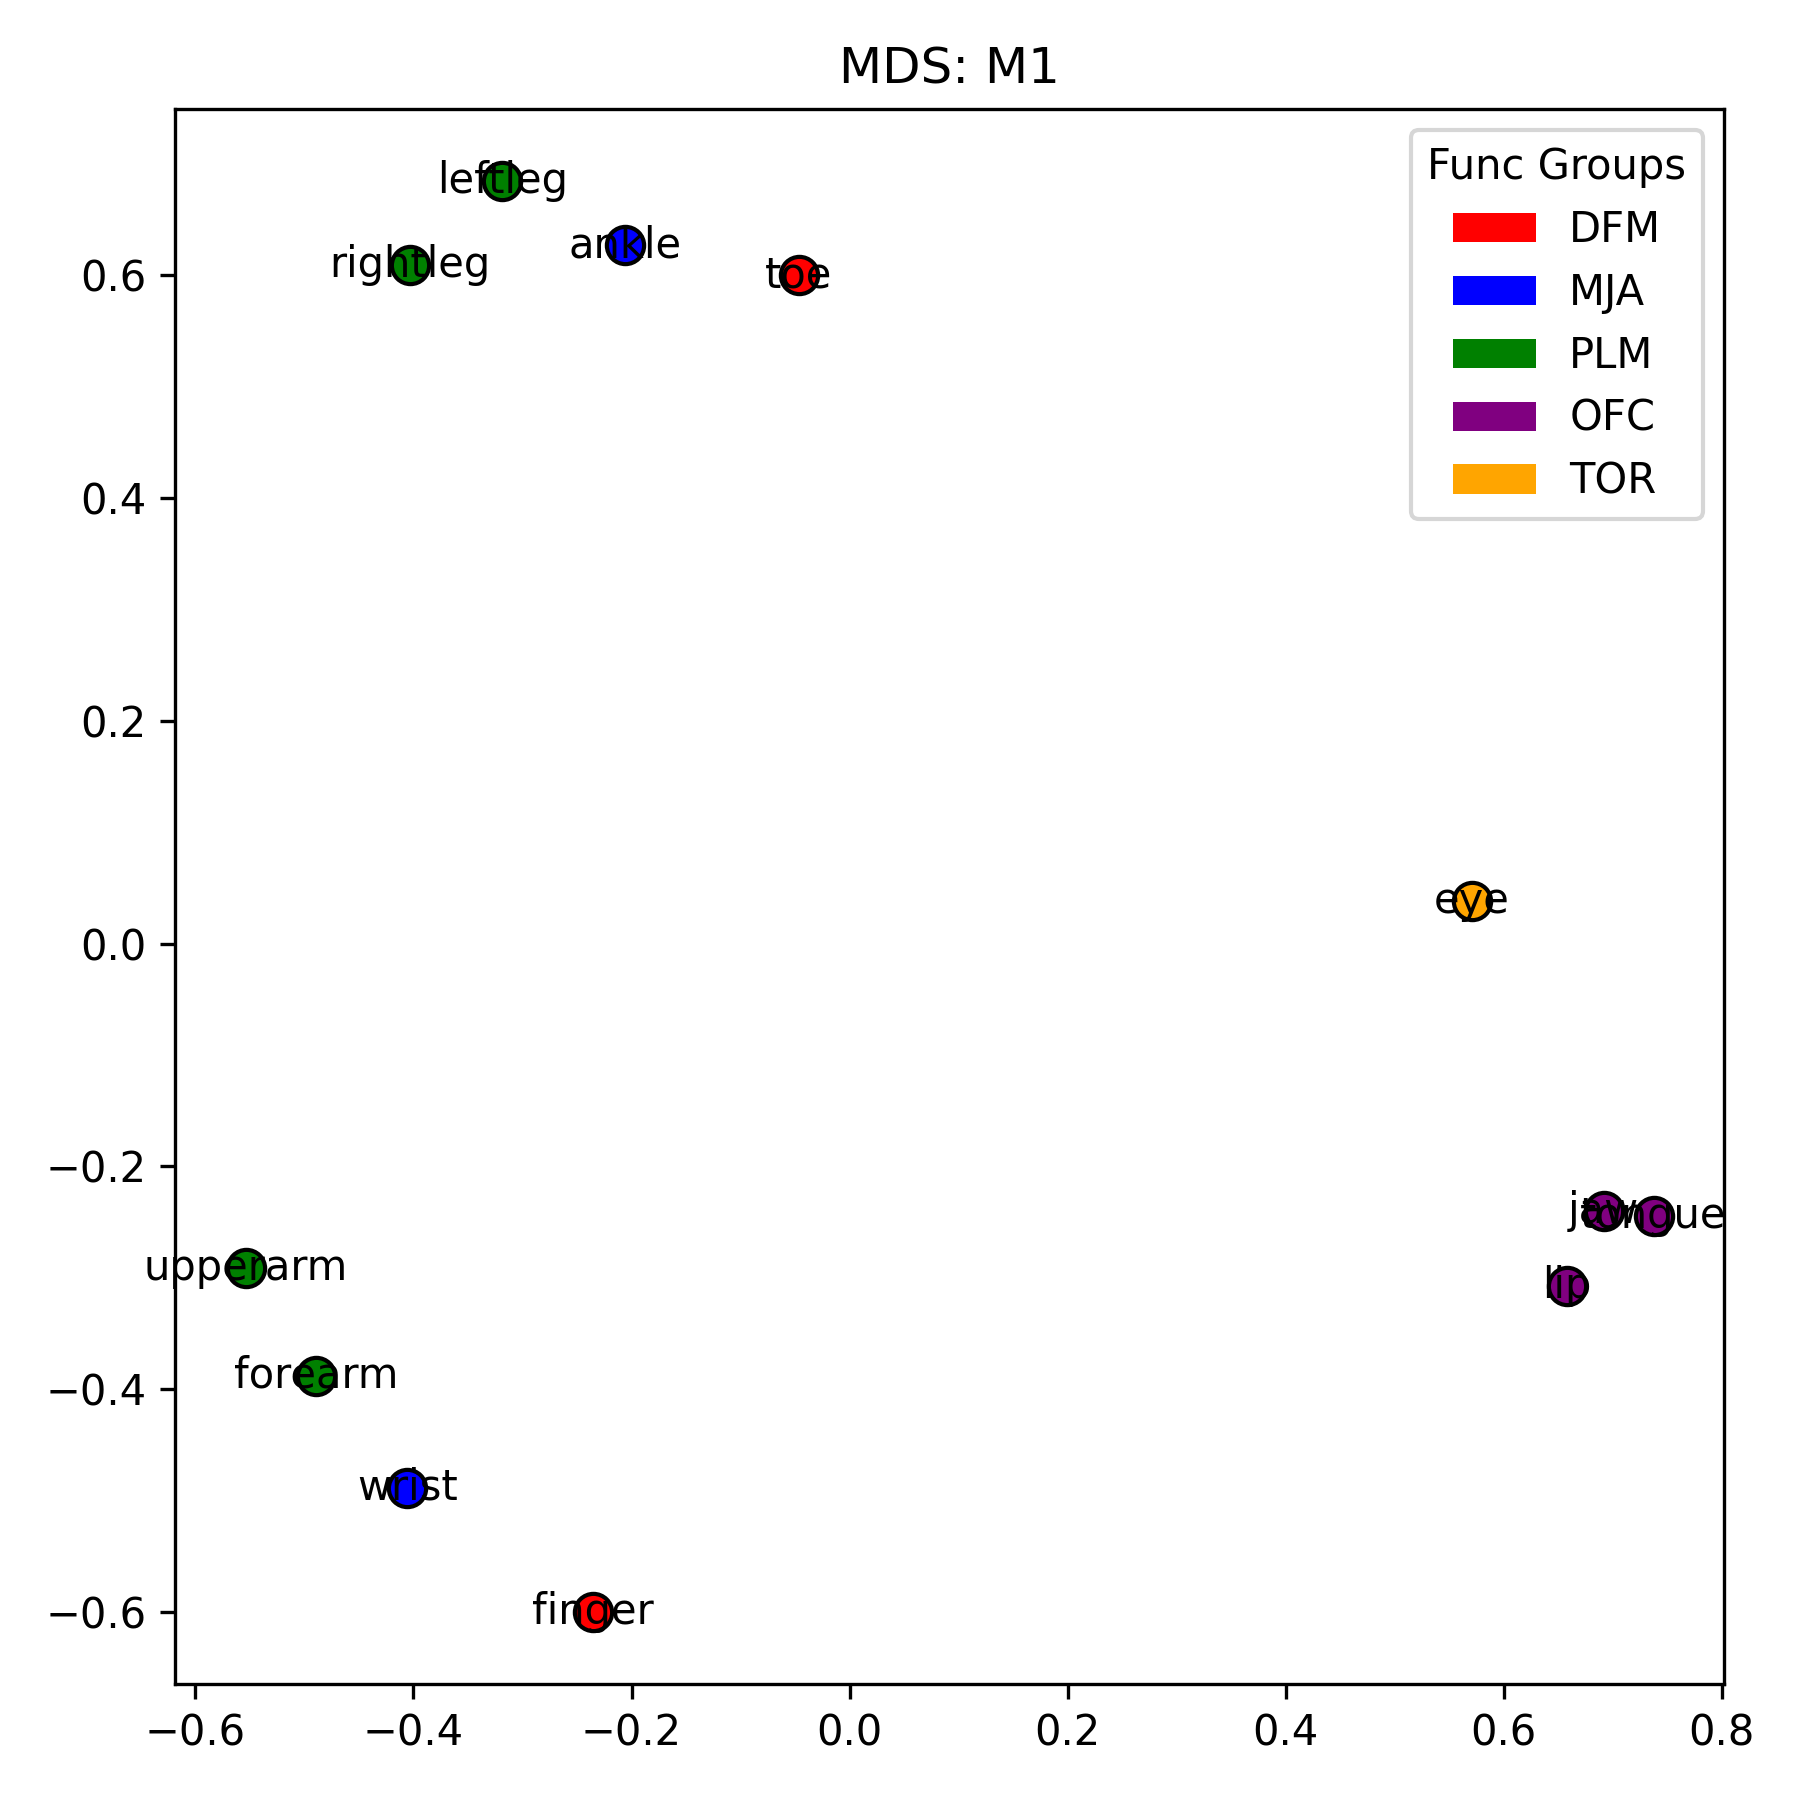
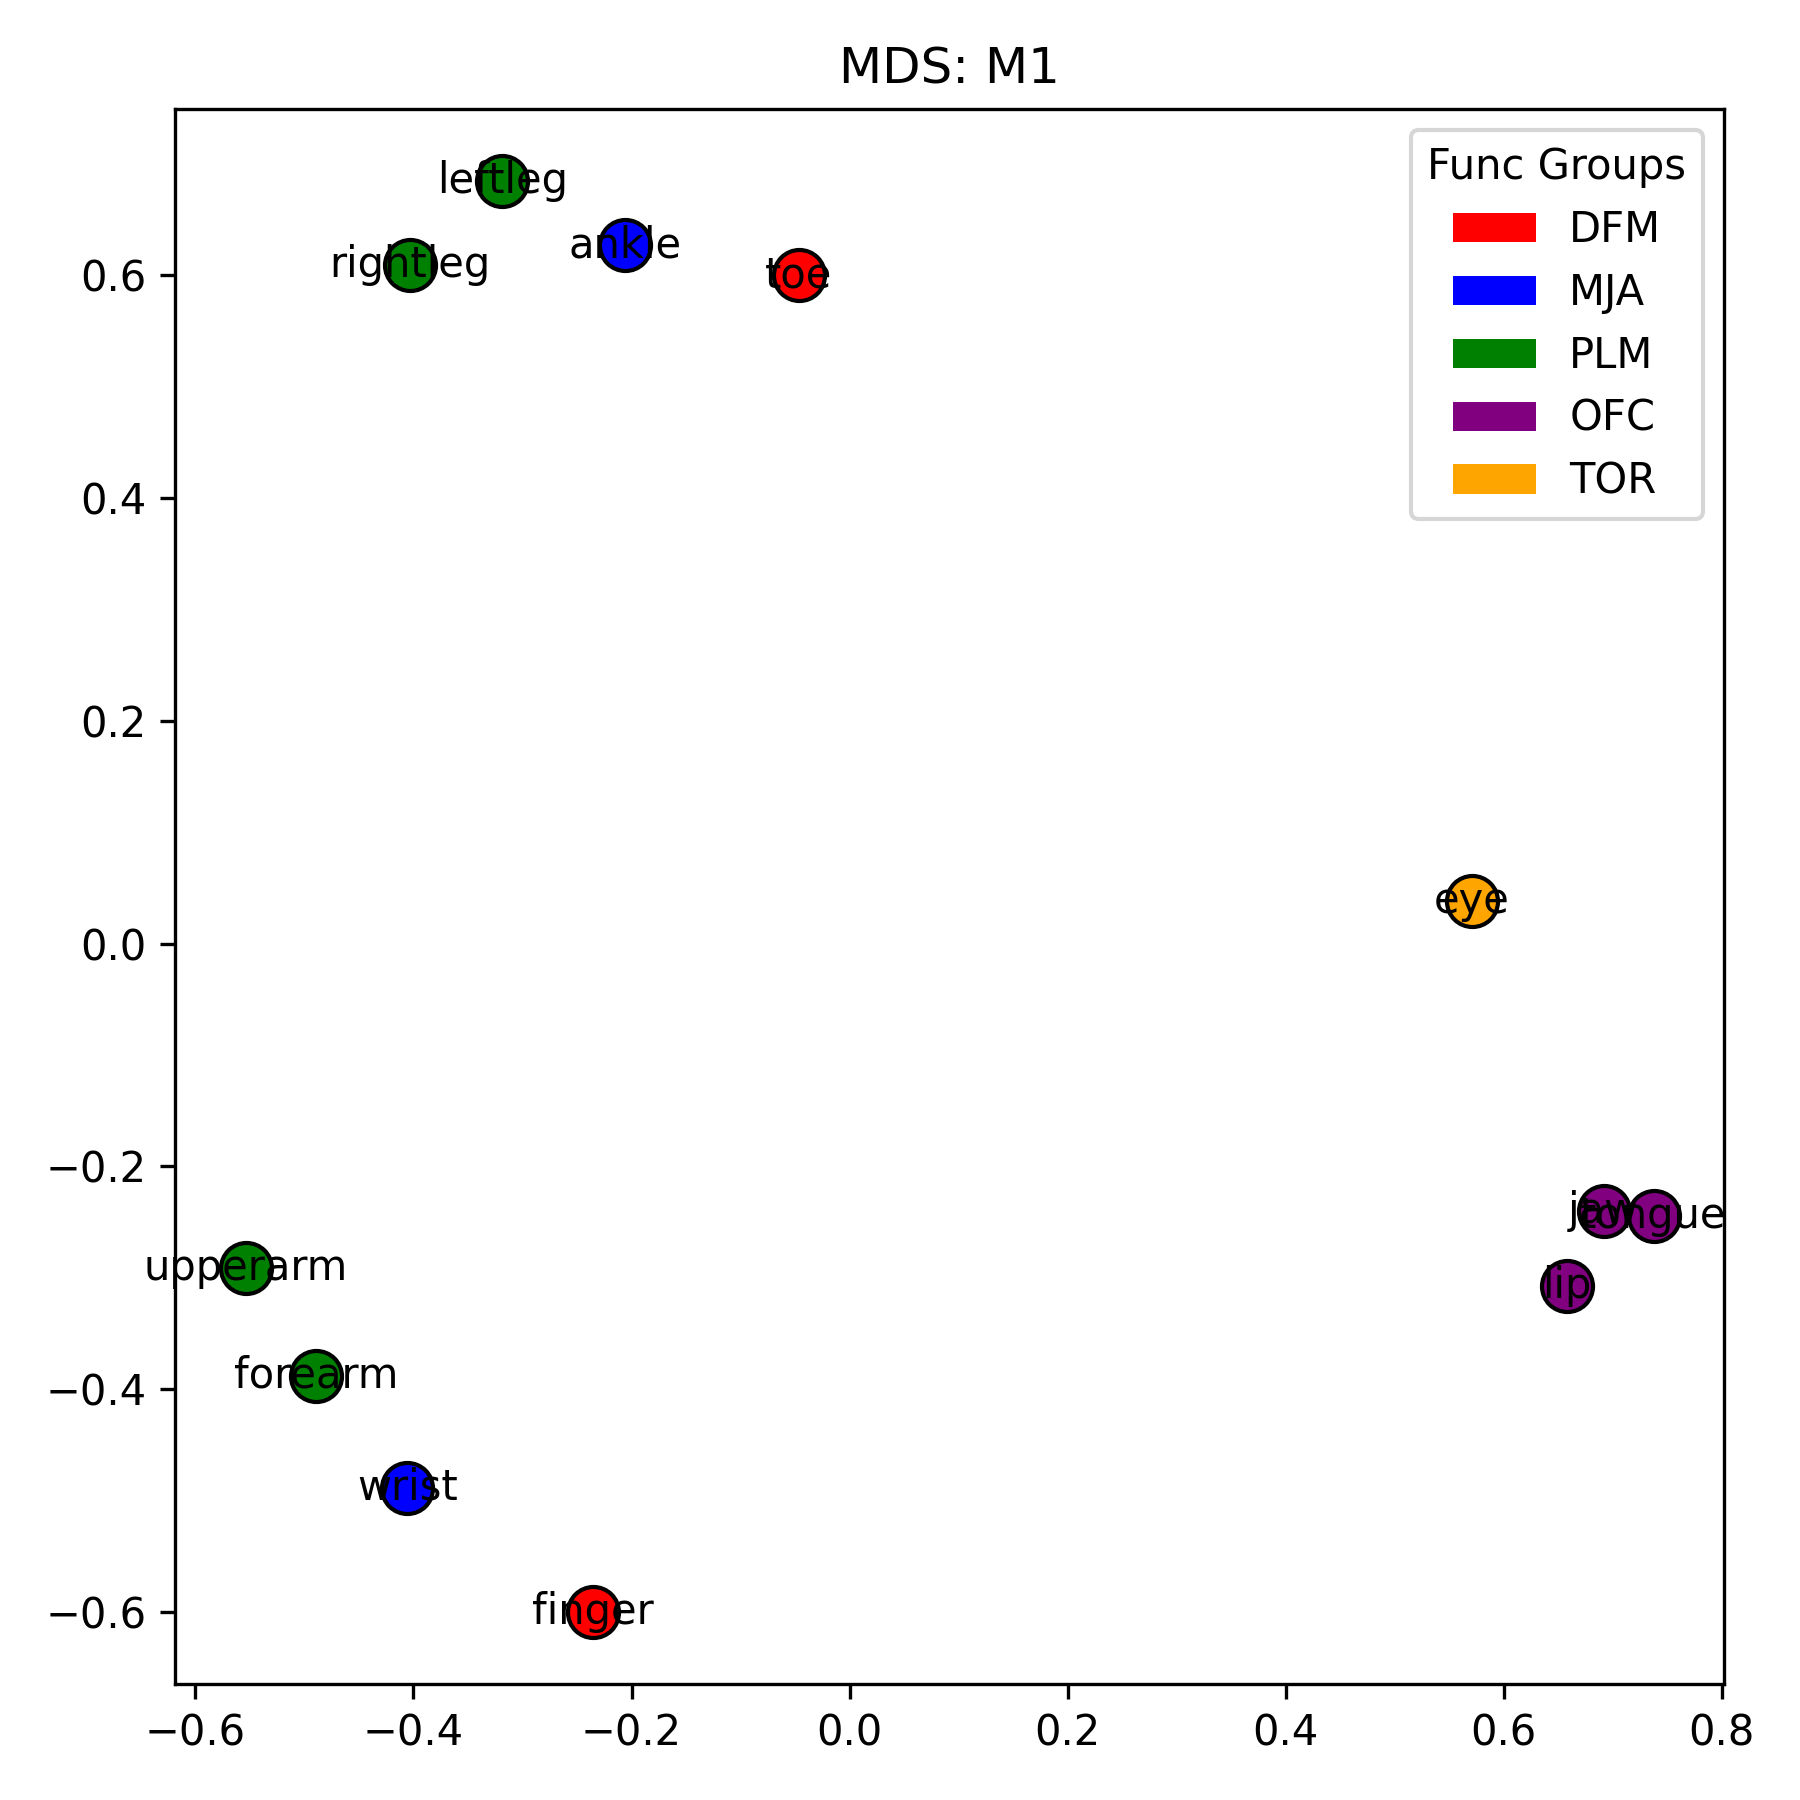
new results

diff --git a/sub_anlysis.py b/sub_anlysis.py
@@ -83,35 +83,35 @@ dist_mat = squareform(pdist([[coords[p]] for p in parts]))
 adjacency_rdm = dist_mat / dist_mat.max()
 
 # functional groups to func RDM
-# func_group = {
-#     'toe':'DFM',
-#     'finger':'DFM',
-#     'ankle':'MJA',
-#     'wrist':'MJA',
-#     'leftleg':'PLM',
-#     'rightleg':'PLM',
-#     'forearm':'PLM',
-#     'upperarm':'PLM',
-#     'jaw':'OFC',
-#     'lip':'OFC',
-#     'tongue':'OFC',
-#     'eye':'TOR'
-# }
-
 func_group = {
-    'ankle':'FOOT_JOINT',
-    'eye':'VISUAL_CONTROL',
-    'finger':'HAND_FINE',
-    'forearm':'ARM_CONTROL',
-    'jaw':'FACE_CONTROL',
-    'leftleg':'LEG_CONTROL',
-    'lip':'FACE_CONTROL',
-    'rightleg':'LEG_CONTROL',
-    'toe':'FOOT_FINE',
-    'tongue':'ORAL_CONTROL',
-    'upperarm':'ARM_CONTROL',
-    'wrist':'HAND_JOINT',
+    'toe':'DFM',
+    'finger':'DFM',
+    'ankle':'MJA',
+    'wrist':'MJA',
+    'leftleg':'PLM',
+    'rightleg':'PLM',
+    'forearm':'PLM',
+    'upperarm':'PLM',
+    'jaw':'OFC',
+    'lip':'OFC',
+    'tongue':'OFC',
+    'eye':'TOR'
 }
+
+# func_group = {
+#     'ankle':'FOOT_JOINT',
+#     'eye':'VISUAL_CONTROL',
+#     'finger':'HAND_FINE',
+#     'forearm':'ARM_CONTROL',
+#     'jaw':'FACE_CONTROL',
+#     'leftleg':'LEG_CONTROL',
+#     'lip':'FACE_CONTROL',
+#     'rightleg':'LEG_CONTROL',
+#     'toe':'FOOT_FINE',
+#     'tongue':'ORAL_CONTROL',
+#     'upperarm':'ARM_CONTROL',
+#     'wrist':'HAND_JOINT',
+# }
 func_rdm = np.zeros((len(parts), len(parts)))
 for i, p1 in enumerate(parts):
     for j, p2 in enumerate(parts):
@@ -313,8 +313,8 @@ for roi in summary['ROI']:
 # ----------------------------------------------------------------------------
 # MDS & Hierarchical difference
 # ----------------------------------------------------------------------------
-colors = { 'FOOT_JOINT': 'red', 'VISUAL_CONTROL': 'blue', 'HAND_FINE': 'green', 'ARM_CONTROL' :  'purble', 'FACE_CONTROL':'orage', 'LEG_CONTROL' : 'black', 'FOOT_FINE': 'grey', 'ORAL_CONTROL': 'yellow', 'HAND_JOINT': 'pink' }
-# colors = {'DFM':'red','MJA':'blue','PLM':'green','OFC':'purple','TOR':'orange'}
+# colors = { 'FOOT_JOINT': 'red', 'VISUAL_CONTROL': 'blue', 'HAND_FINE': 'green', 'ARM_CONTROL' :  'purble', 'FACE_CONTROL':'orage', 'LEG_CONTROL' : 'black', 'FOOT_FINE': 'grey', 'ORAL_CONTROL': 'yellow', 'HAND_JOINT': 'pink' }
+colors = {'DFM':'red','MJA':'blue','PLM':'green','OFC':'purple','TOR':'orange'}
 for roi, rdm in avg_rdms.items():
     coords2d = MDS(n_components=2, dissimilarity='precomputed', random_state=0).fit_transform(rdm)
     plt.figure(figsize=(6,6))
